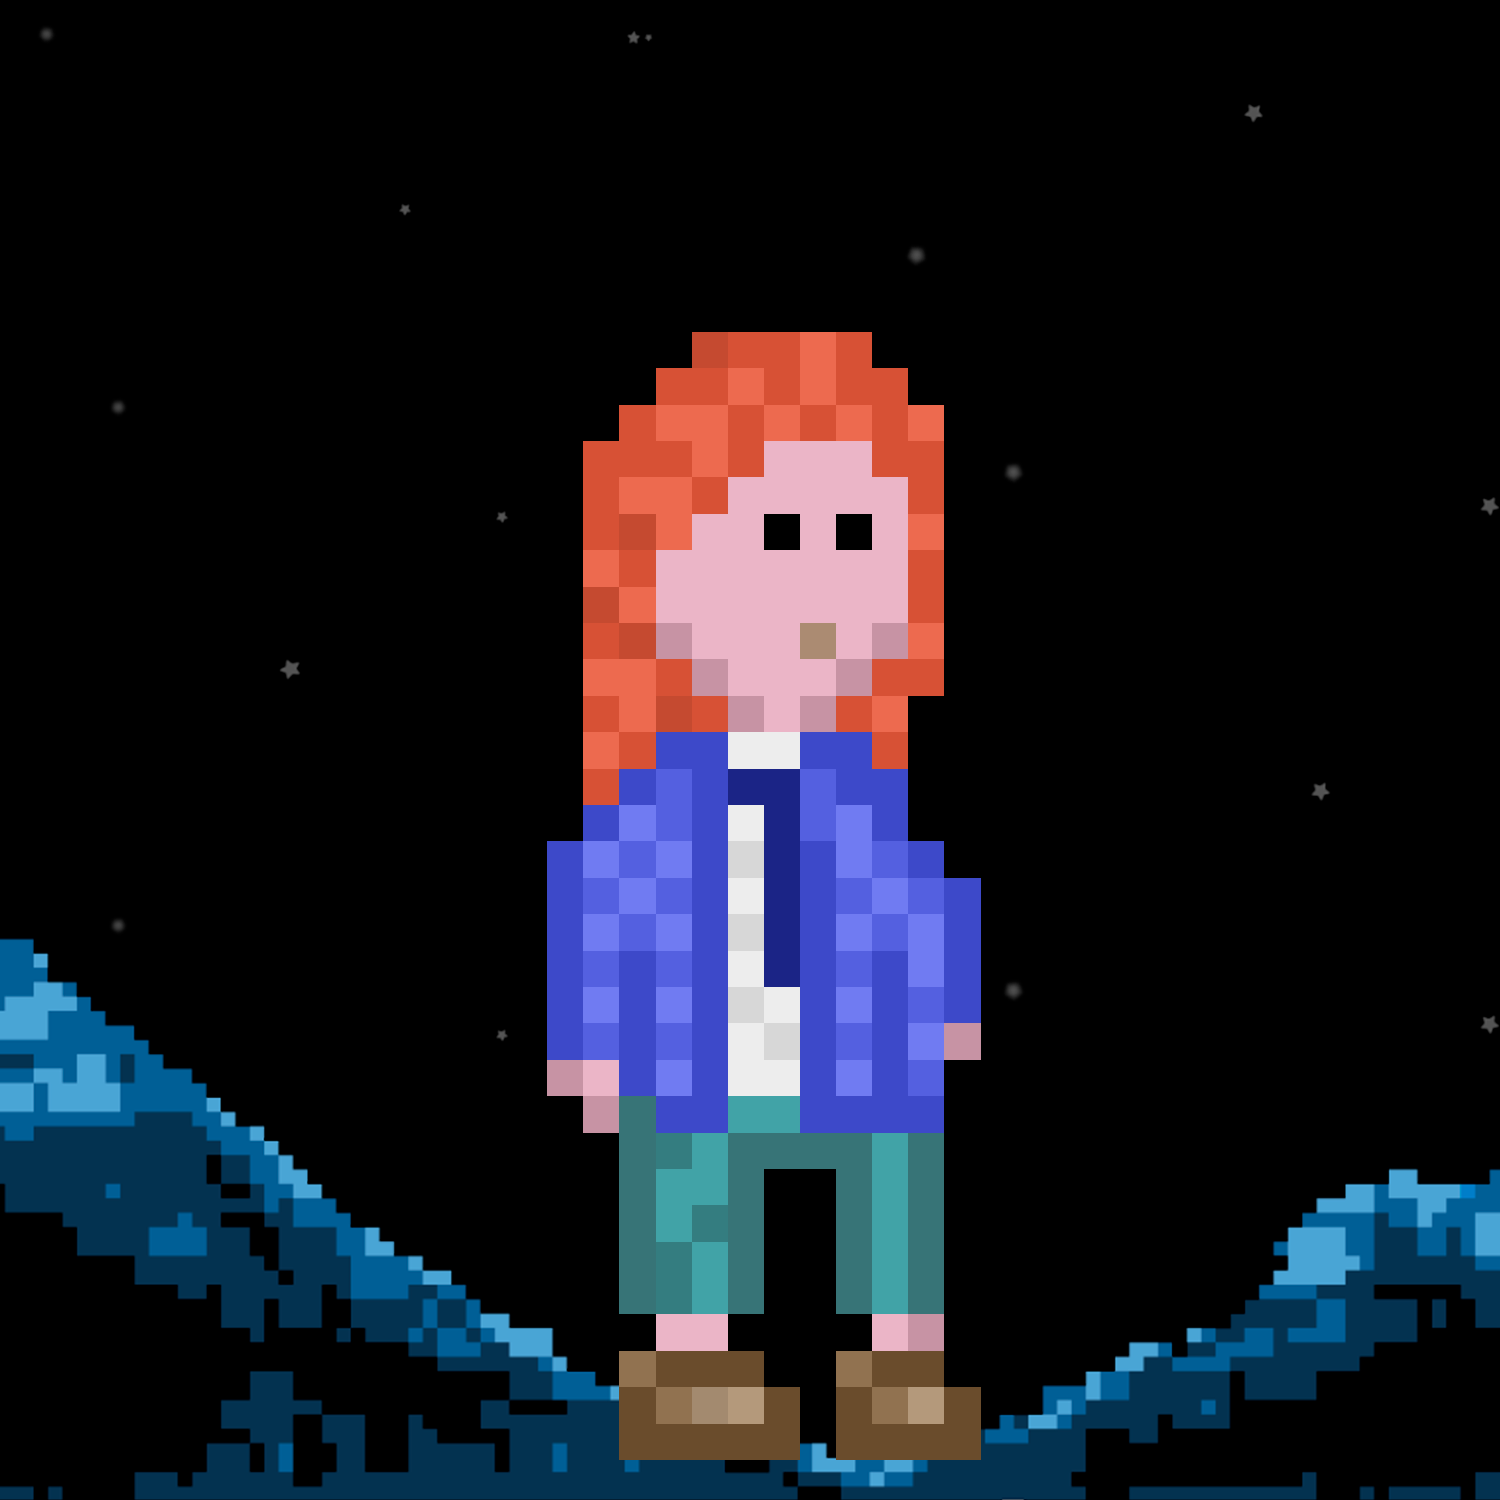
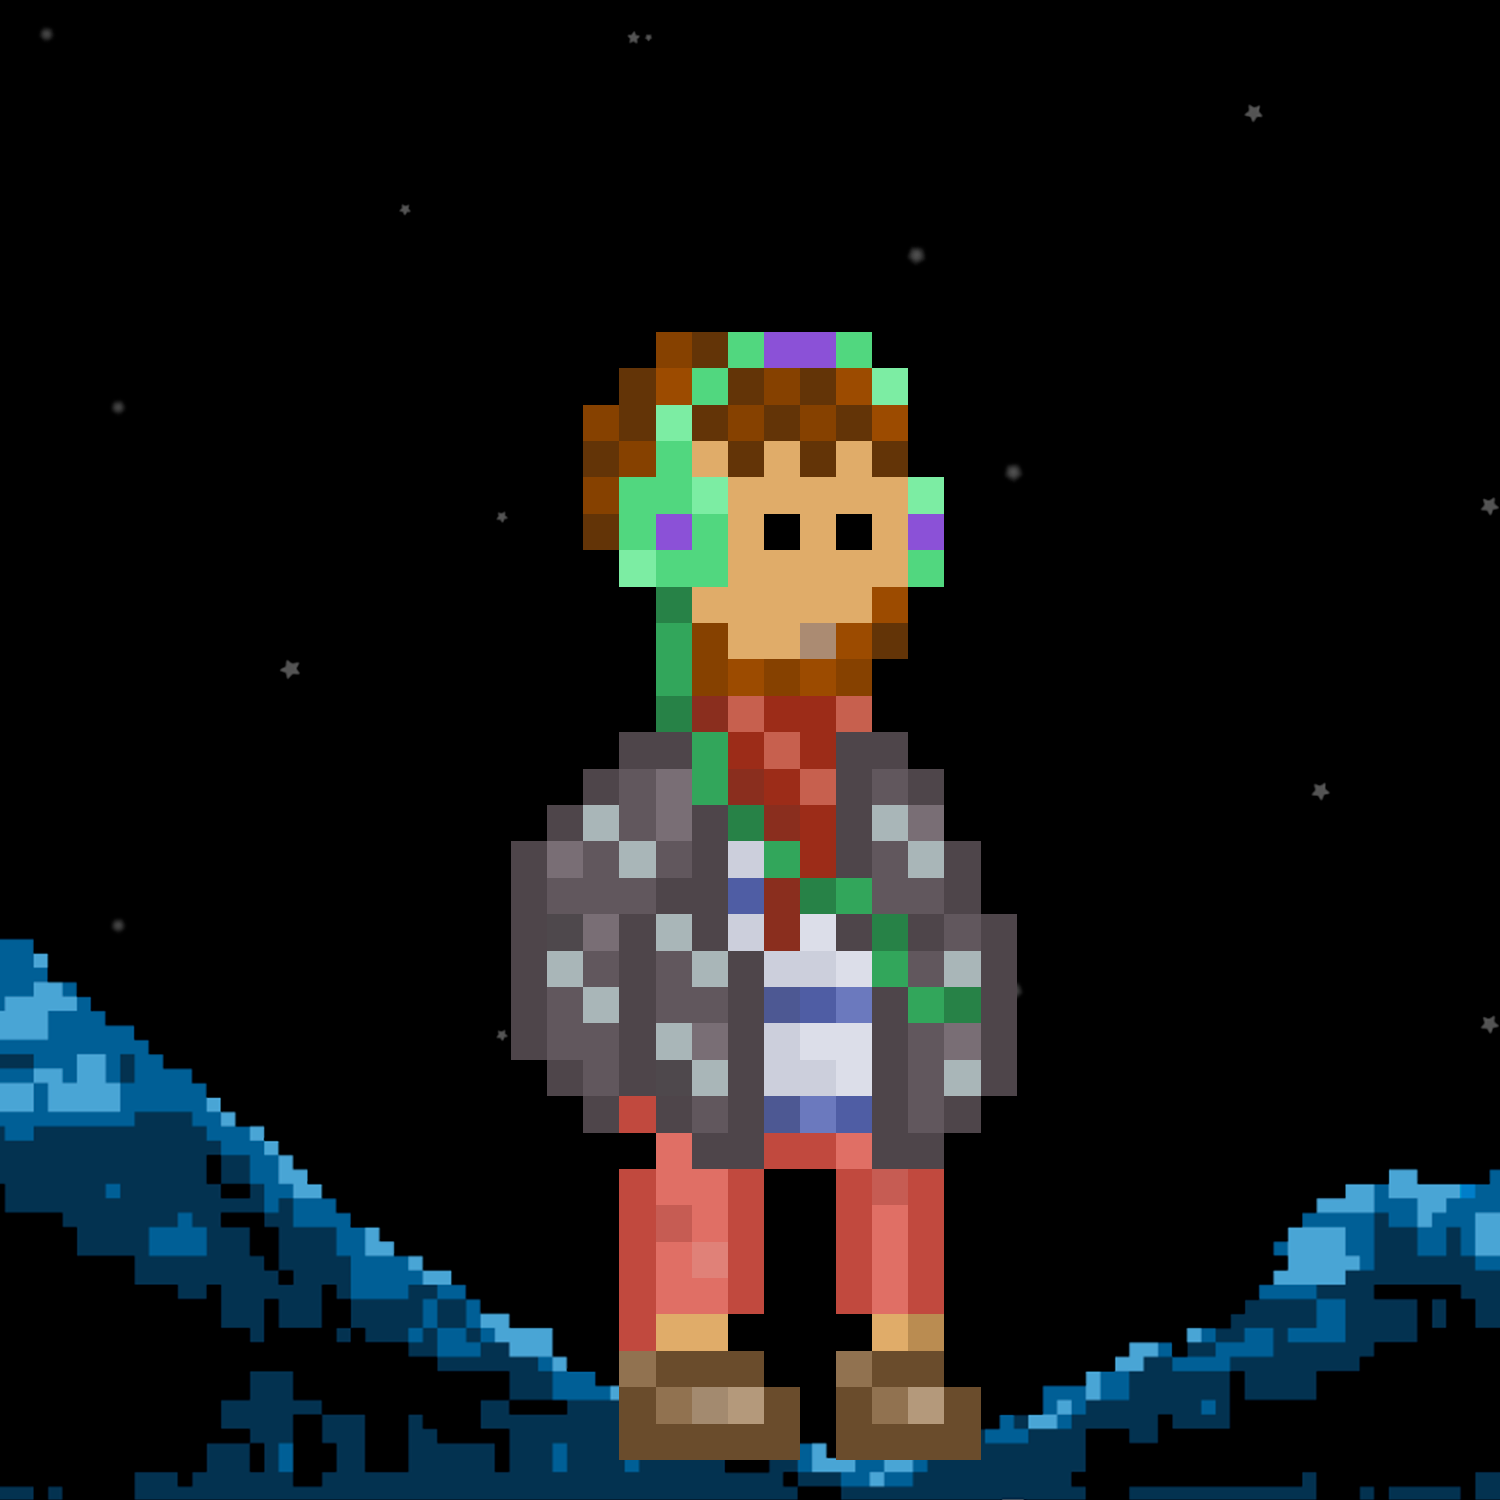
fix headphones punch

Changed region(s): [[0.3373, 0.2147, 0.7053, 0.92]]

diff --git a/core/services/generator.py b/core/services/generator.py
@@ -16,10 +16,26 @@ def generate_square(id, bearer):
 
     char_img = Image.new("RGBA", (36,36), (0,0,0,0))
 
-    for url in char_urls:
-        res = requests.get(url)
-        img = Image.open(BytesIO(res.content))
-        char_img.alpha_composite(img)
+    def append_element(img, element):
+        _elem = requests.get(character[element])
+        element_img = Image.open(BytesIO(_elem.content))
+        img.alpha_composite(element_img)
+
+    def append_element_if_exist(elem):
+        if elem in character.keys():
+            append_element(char_img, elem)
+
+    append_element_if_exist("body")
+    append_element_if_exist("shoes")
+    append_element_if_exist("pants")
+    append_element_if_exist("cloth")
+    append_element_if_exist("face")
+    append_element_if_exist("hair")
+    append_element_if_exist("headphones")
+    append_element_if_exist("glasses")
+    append_element_if_exist("sunglasses")
+    append_element_if_exist("glass")
+    append_element_if_exist("accessories")
 
     char_img = char_img.resize((1300,1310), Image.NEAREST)
 
